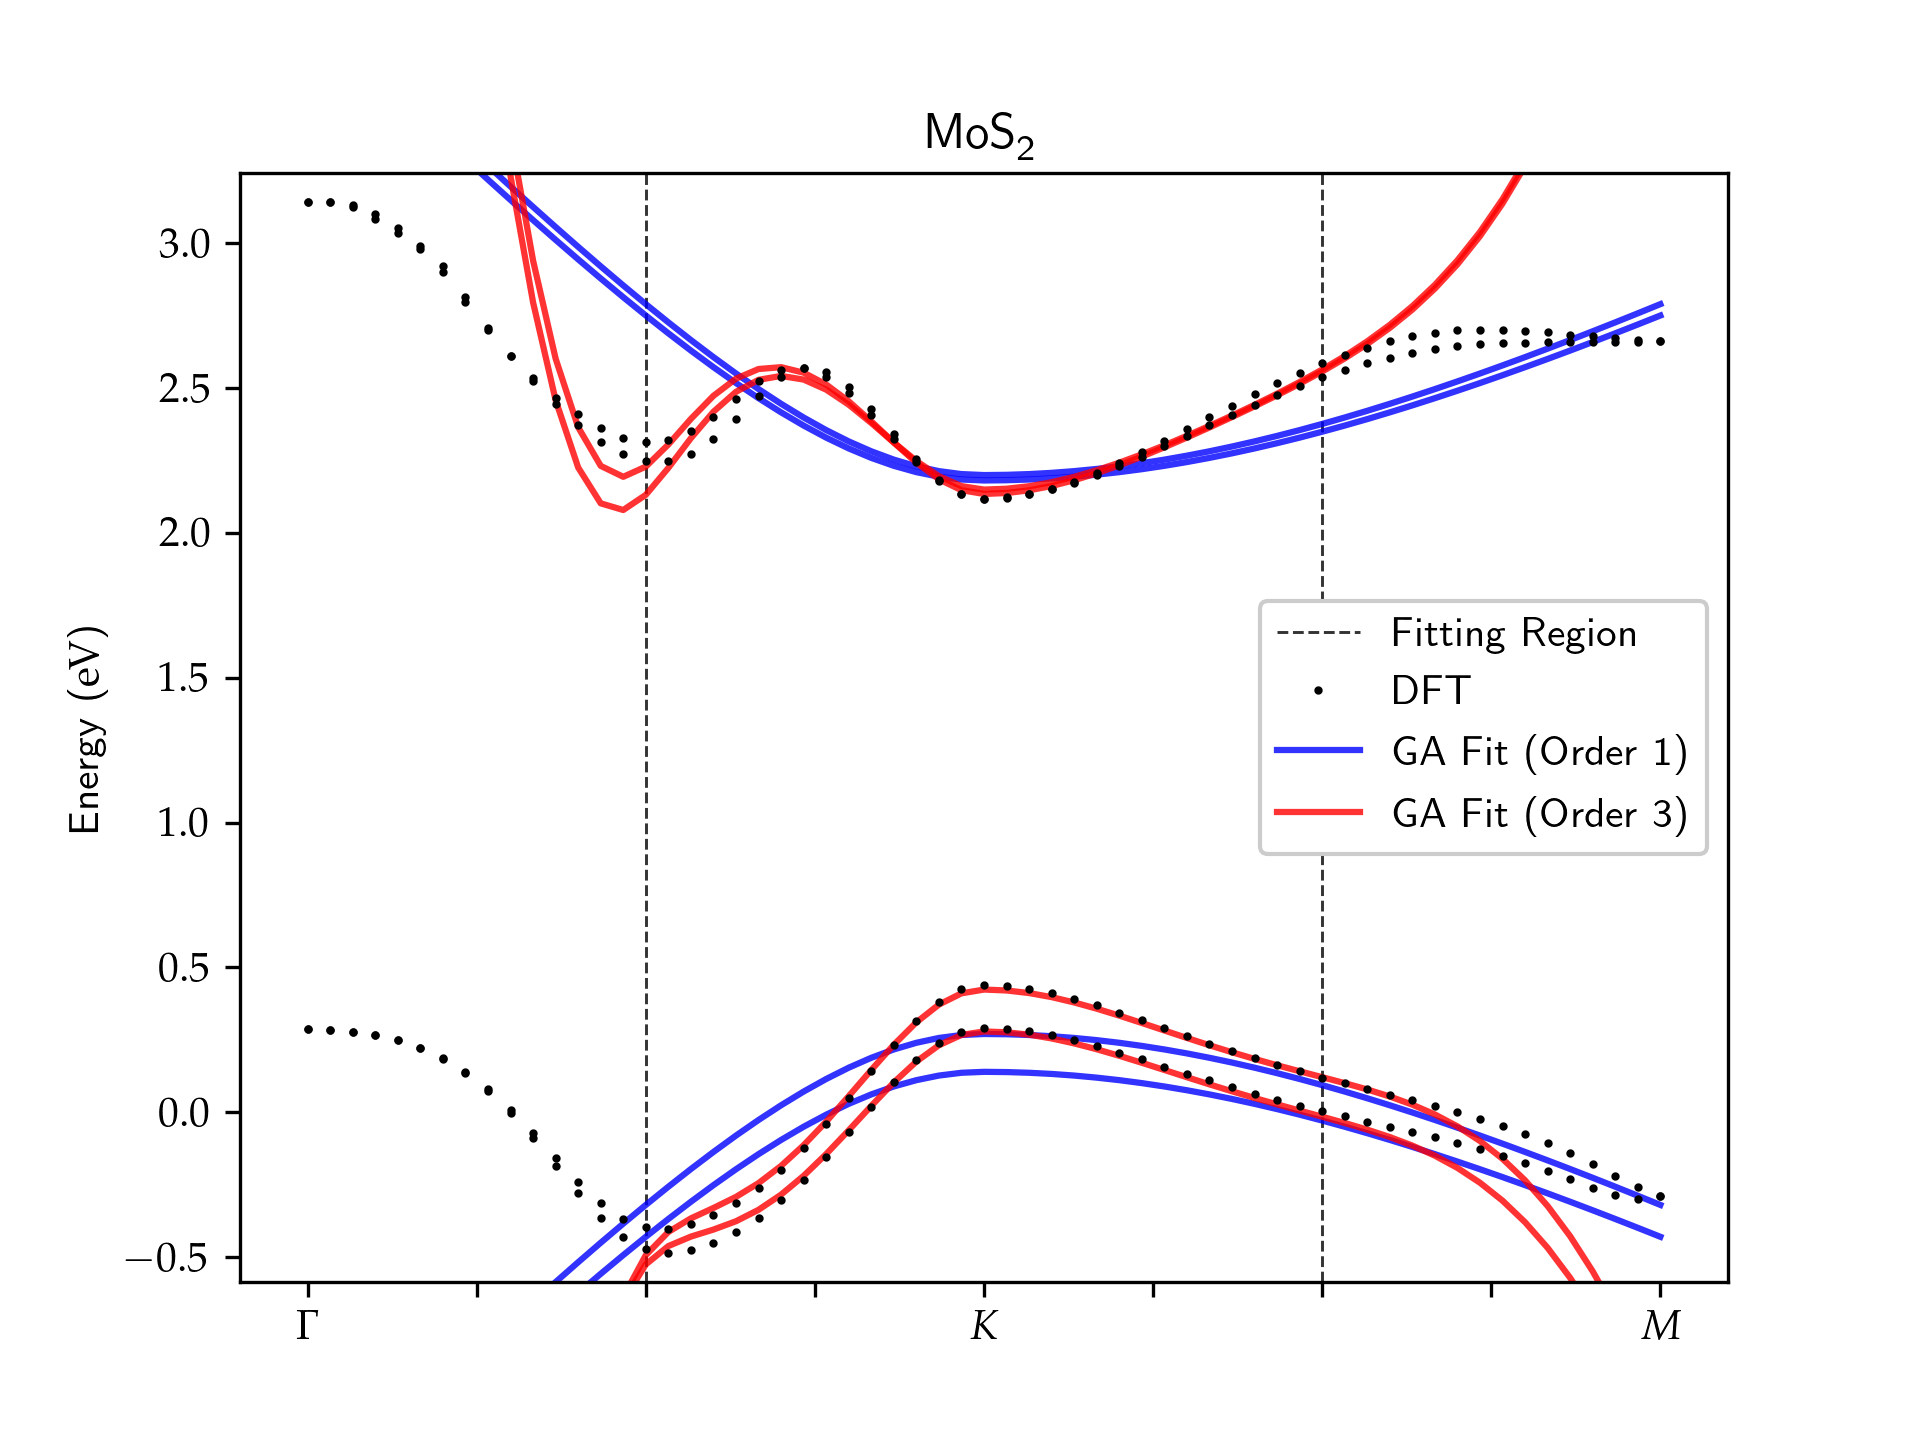
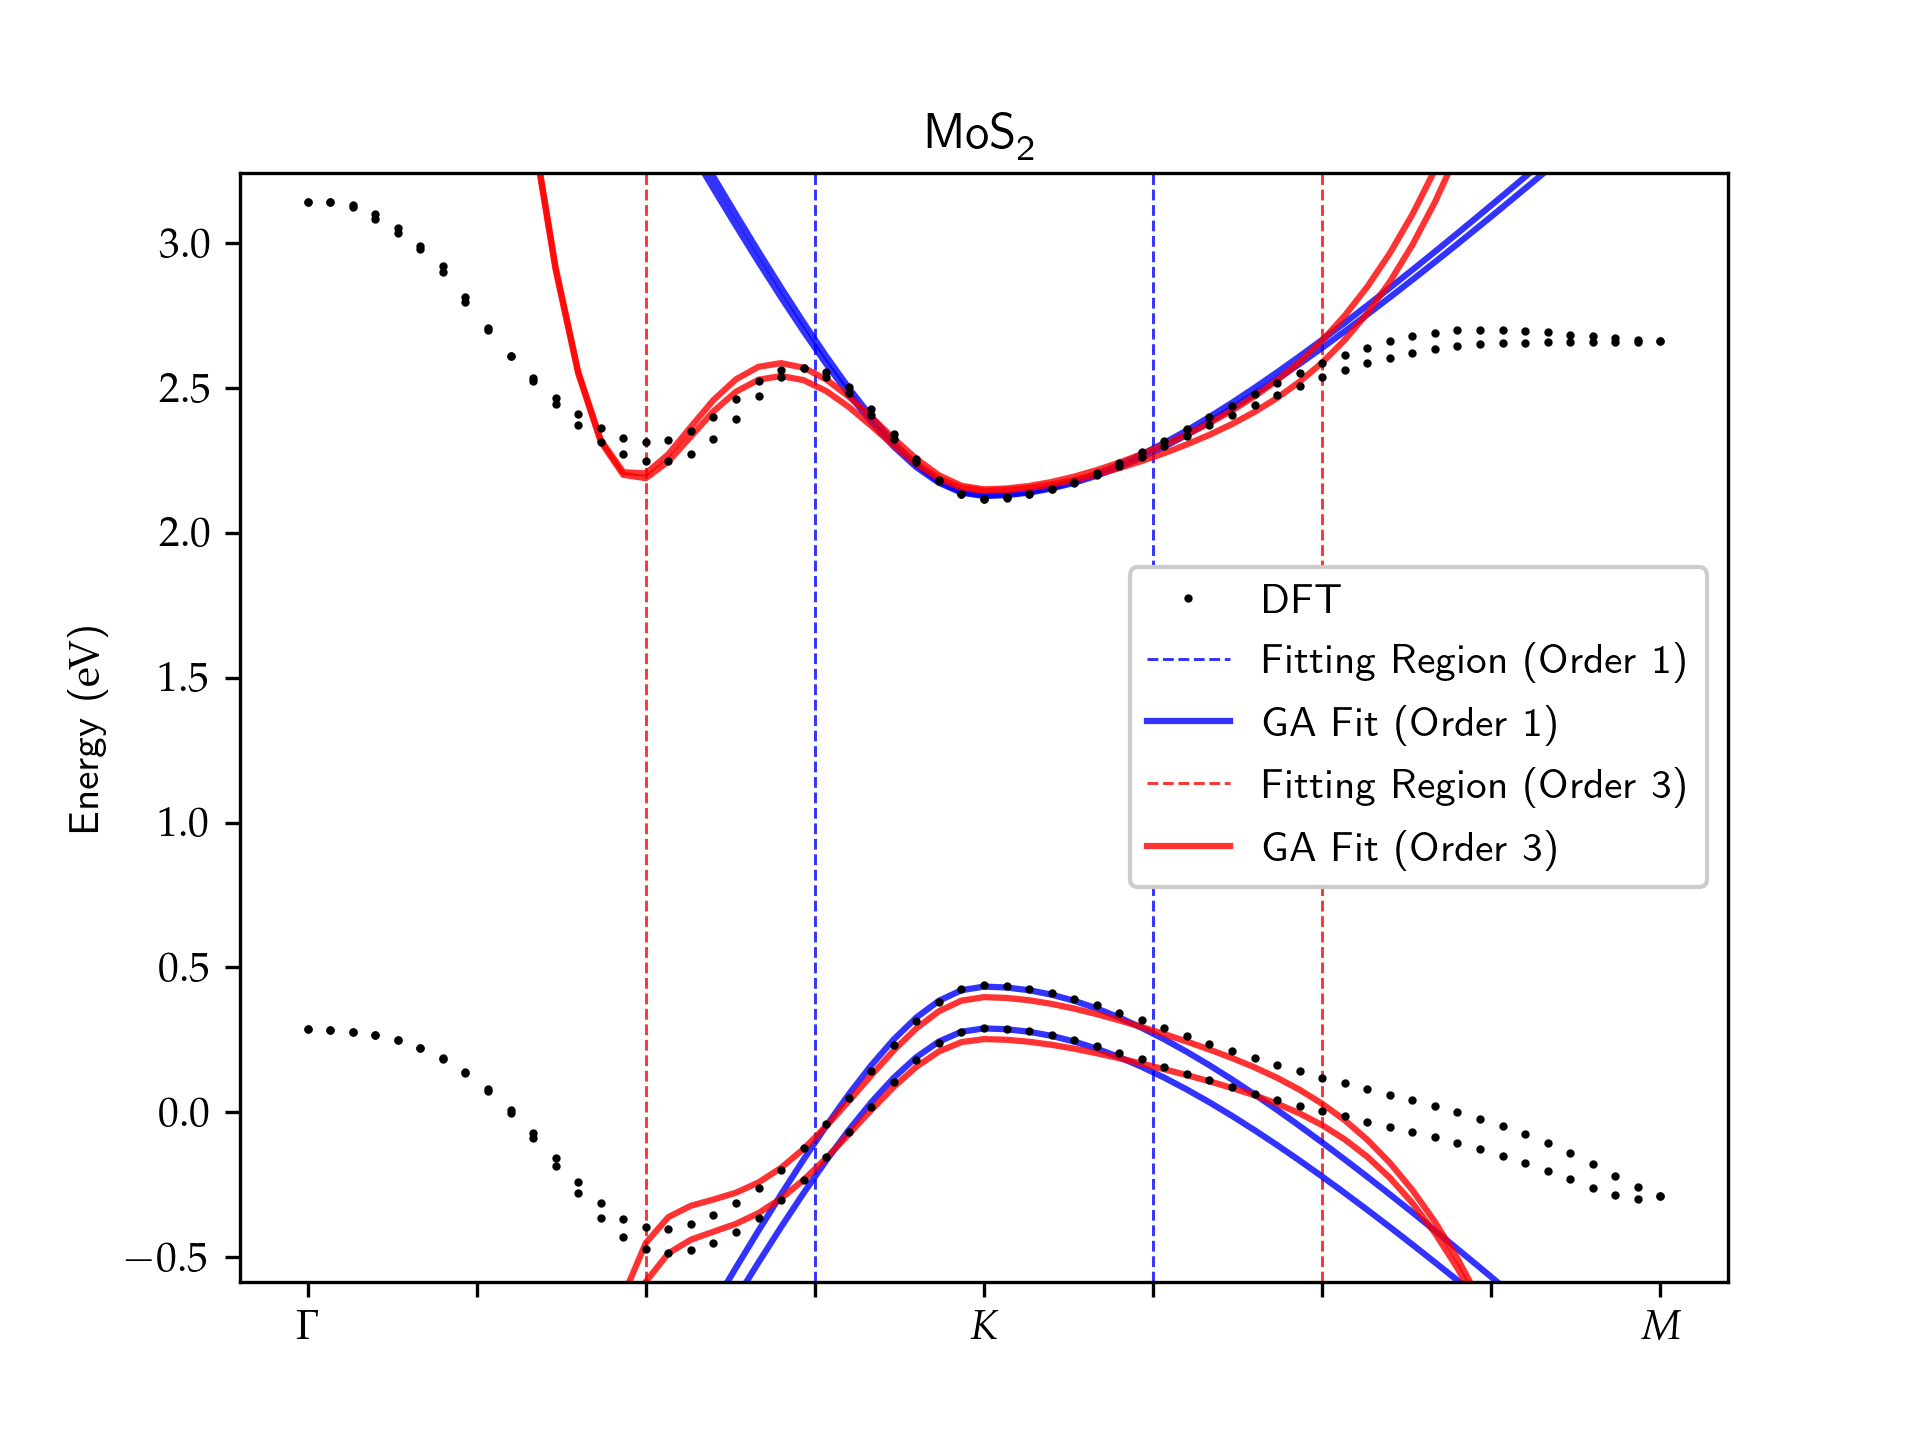
Allowing different fit regions for each order

diff --git a/main.py b/main.py
@@ -46,8 +46,7 @@ CRSE2_ENERGY = 0.8903
 MOS2_ENERGY = 0.8535
 
 Y_MARGIN = 0.1
-LOWER_FIT_LIM = -0.5
-UPPER_FIT_LIM = 0.5
+FIT_LIM = 0.375
 
 # Setting up logger
 LOG_FORMAT = "%(levelname)s : %(asctime)s : %(message)s"
@@ -216,15 +215,17 @@ def parse_args():
     )
 
     parser.add_argument(
-        "--fit-region",
+        "--fit-regions",
         type=float,
-        nargs=2,
-        default=(LOWER_FIT_LIM, UPPER_FIT_LIM),
+        nargs="*",
+        default=[FIT_LIM],
         help=(
-            "two floats representing the the region of the data to "
-            "consider in the fitting process. Range of each value is "
-            "[-1.0, 1.0], -1.0 corresponding to gamma, 0.0, to K, and "
-            f"1.0 to M. Default is ({LOWER_FIT_LIM}, {UPPER_FIT_LIM})."
+            "a sequence of floats representing the percentage of points "
+            "of the data to consider in the fitting process for each order "
+            "specified, in ascending order. Idealy, the lower the order, the "
+            "smaller the correspondent value. A sugested sequence for orders "
+            "1, 2, 3 is 0.25, 0.375, 0.5. Range of each value is [0.0, 1.0]. "
+            f"Default is [{FIT_LIM}]."
         ),
     )
 
@@ -300,9 +301,9 @@ if __name__ == "__main__":
     temp = args.temp
     no_local_search = args.no_local_search
     processes = args.processes
-    orders = args.orders
+    orders = sorted(args.orders)
     fix = args.fix
-    lower_fit_region, upper_fit_region = sorted(args.fit_region)
+    fit_regions = list(map(abs, args.fit_regions))
 
     # Checking if number of processes is not greater than available cores
     if processes > PROCESSES and method == "genetic_algorithm":
@@ -311,6 +312,11 @@ if __name__ == "__main__":
             "Number of processes greater than available logical processors. "
             f"Using {PROCESSES} processes instead."
         )
+
+    # Checking if fit_region has at least the same length of orders
+    # if not, populate fit_region with the default FIT_LIM
+    while len(fit_regions) < len(orders):
+        fit_regions.append(FIT_LIM)
 
     csv_dir = Path("data/csv")
     plot_dir = Path("plots")
@@ -358,25 +364,24 @@ if __name__ == "__main__":
             expected_lambda_v,
         )
 
-        # Data subset that will be used in the fitting process
-        lower_fit_index, upper_fit_index = get_fitting_region(
-            ks, lower=lower_fit_region, upper=upper_fit_region
-        )
-
-        fitting_ks = ks[lower_fit_index:upper_fit_index, :]
-        fitting_energies = sorted_energies[lower_fit_index:upper_fit_index, :]
-        logger.info(
-            "Using interval "
-            f"{fitting_ks[0, 0]: .3f} < kx < {fitting_ks[-1, 0]: .3f} "
-            "as fitting region (equivalent to range "
-            f"[{lower_fit_region}, {upper_fit_region}] in the plot domain)"
-        )
-
         sorted_eigen_list = []
         params_list = []
         best_func_value_list = []
 
-        for order in orders:
+        for order, fit_region in zip(orders, fit_regions):
+            # Data subset that will be used in the fitting process
+            lower_fit_index, upper_fit_index = get_fitting_region(
+                ks, lower=-fit_region, upper=fit_region
+            )
+
+            fitting_ks = ks[lower_fit_index:upper_fit_index, :]
+            fitting_energies = sorted_energies[lower_fit_index:upper_fit_index, :]
+            logger.info(
+                "Using interval "
+                f"{fitting_ks[0, 0]: .3f} < kx < {fitting_ks[-1, 0]: .3f} "
+                "as fitting region (equivalent to range "
+                f"[{fit_region}, {fit_region}] in the plot domain)"
+            )
 
             # The genetic_algorithm method search for points of
             # maximum, while the dual annealing method seach for
@@ -539,17 +544,6 @@ if __name__ == "__main__":
         ax.xaxis.set_major_formatter(plt.FuncFormatter(xtick_label_formatter))
 
         plot_domain = get_plot_domain(ks)
-        ax.vlines(
-            (plot_domain[lower_fit_index], plot_domain[upper_fit_index]),
-            *ylim,
-            color="black",
-            alpha=0.8,
-            linestyles="dashed",
-            linewidths=0.7,
-            label="Fitting Region",
-            zorder=-2,
-        )
-
         ax.plot(
             plot_domain,
             sorted_energies,
@@ -562,7 +556,20 @@ if __name__ == "__main__":
 
         colors = ("blue", "red", "green")
 
-        for sorted_eigenvalues, color, order in zip(sorted_eigen_list, colors, orders):
+        for sorted_eigenvalues, color, fit_region, order in zip(
+            sorted_eigen_list, colors, fit_regions, orders
+        ):
+            ax.vlines(
+                (-fit_region, fit_region),
+                *ylim,
+                color=color,
+                alpha=0.8,
+                linestyles="dashed",
+                linewidths=0.7,
+                label=f"Fitting Region (Order {order})",
+                zorder=-2,
+            )
+
             ax.plot(
                 plot_domain,
                 sorted_eigenvalues,
